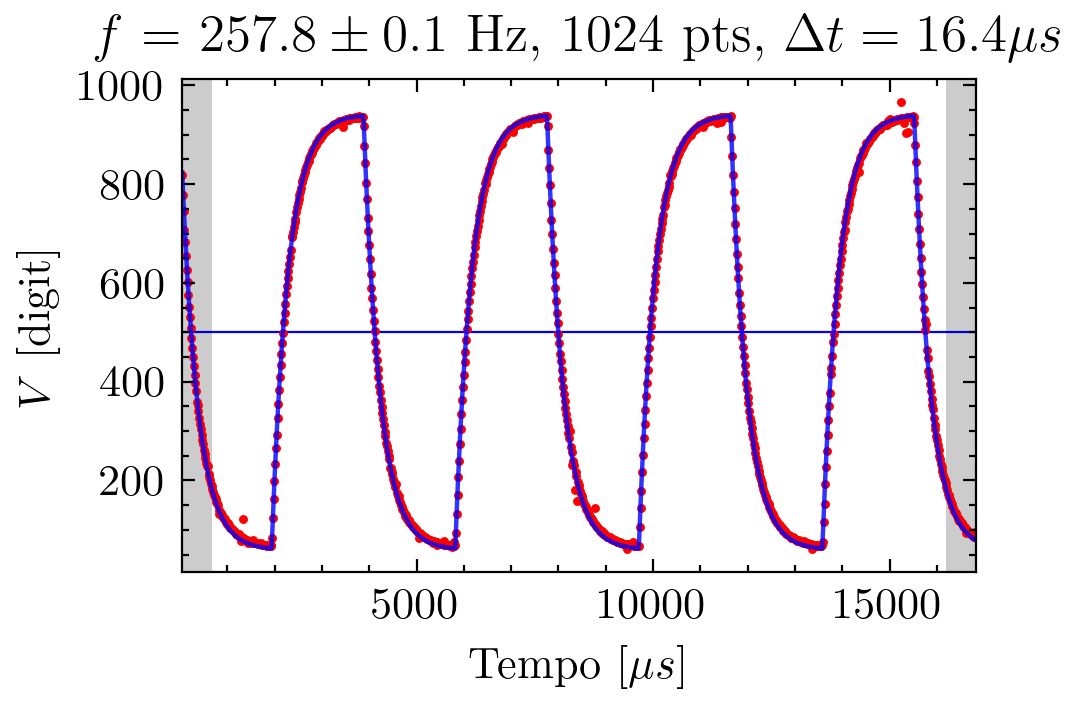
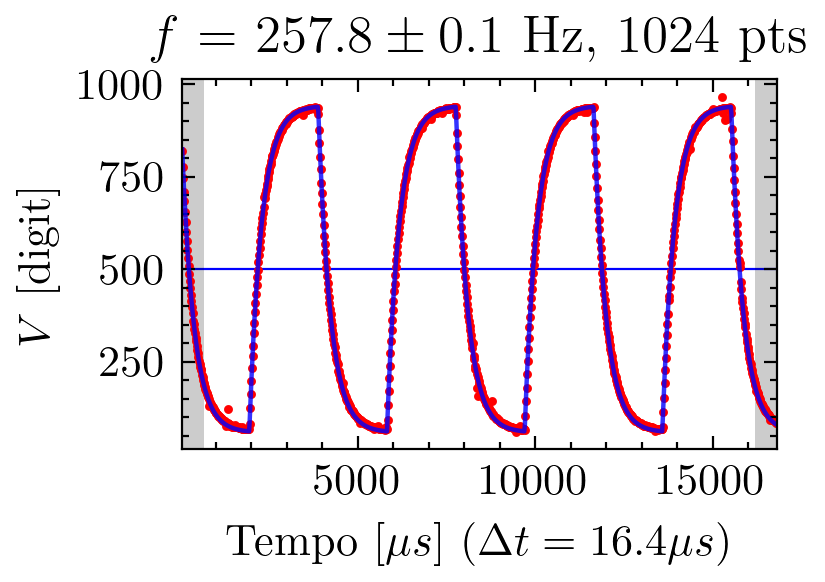
smaller figures

diff --git a/lab2/fourier_numerical_reconstruction/RC_integrator.py b/lab2/fourier_numerical_reconstruction/RC_integrator.py
@@ -80,12 +80,12 @@ for data_entry in waves_data.transpose():
 
     # plot results
     plt.style.use(["science"])
-    plt.figure(figsize=(3.2, 2), dpi=320)
+    plt.figure(figsize=(2.4, 1.5), dpi=320)
     plt.errorbar(wave_data[:,0], wave_data[:,1], xerr=dt, yerr=1, color="red", fmt='.', markersize=2, zorder=1) # plot data
     plt.plot(t, simulated_wave, color="blue", alpha=0.8, zorder=2) # plot simulated wave
 
-    plt.title(f"$f$ = ${f}\pm{f_err}$ Hz, {samples} pts, $\Delta t = {dt:.1f} \mu s$")
-    plt.xlabel("Tempo [$\mu s$]")
+    plt.title(f"$f$ = ${f}\pm{f_err}$ Hz, {samples} pts")
+    plt.xlabel(f"Tempo [$\mu s$] ($\Delta t = {dt:.1f} \mu s$)")
     plt.ylabel("$V$ [digit]")
 
     # color area that was discarded in the DC offset calculation
